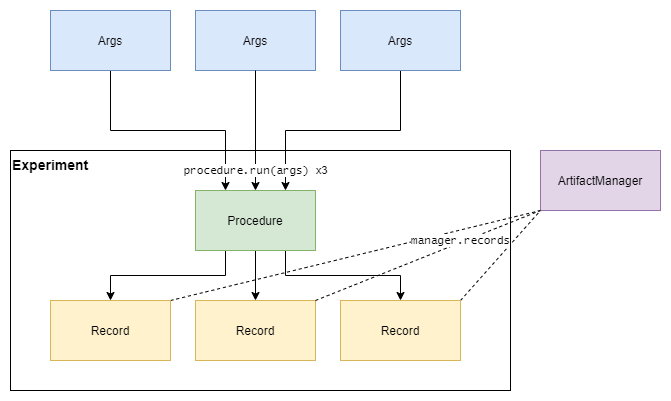
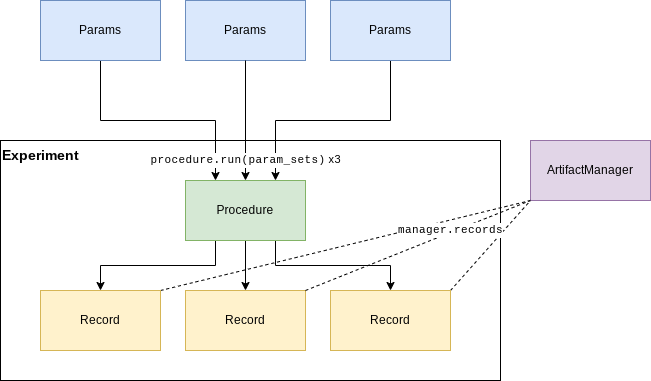
Update components docs

diff --git a/curifactory/procedure.py b/curifactory/procedure.py
@@ -39,7 +39,7 @@ class Procedure:
         previous_proc (Procedure): If specified and this procedure begins with an aggregate stage,
             use the ``previous_proc.records`` list of records.
         records (List[Record]): If specified and this procedure begins with an aggregate stage, use
-            this list of records.
+            this list of records. Note that ``previous_proc`` takes precedence over this argument.
 
     Note:
         If a procedure begins with an aggregate stage and neither ``previous_proc`` nor

diff --git a/sphinx/source/components.rst b/sphinx/source/components.rst
@@ -32,20 +32,20 @@ are simply an alternative way to running stages than the functional form.
         test_model
     ], ...)
 
-**Parameter sets** - Parameter sets represent a specific collection (list of argsets) of configuration values or adjustable parameters for the stage functions
+**Parameter sets** - Parameter sets represent a collection of configuration values or adjustable parameters for the stage functions
 to apply to the functions called in the codebase.
 
-**Records** - A record is a collection of data/variables used in a single run of a procedure with a single paramset.
+**Records** - A record is a collection of data/variables used in a single run of a procedure with a single parameter set.
 A record is automatically passed between stages of a procedure in order to persist the information. The currently
 active record is passed into every stage, so a stage has manual access to everything stored in it.
 
 **Artifact Manager** - An artifact manager instance is associated with each experiment run, and it tracks and handles all intermediate
 outputs from the various stages. The manager is the overarching collection of records for an experiment run.
-It tracks all records for each procedure/paramset
+It tracks all records for each procedure/parameter set
 used. A stage with an aggregate decorator can get access to all records instead of just the currently active one in
 the procedure in order to aggregate results or other data across the records.
 
-**Experiments** - Experiments apply given sets of parameters to one or more procedures, potentially running additional aggregate stages
+**Experiments** - Experiments apply given parameter sets to one or more procedures, potentially running additional aggregate stages
 to collect and analyze results from multiple procedure runs across parameter sets. The intention of an experiment is
 to allow easy comparison of results for multiple similar procedures and/or multiple parameter configurations across one
 or more procedures.
@@ -61,13 +61,13 @@ Stage flow
 .. figure:: images/interactions_stage.png
     :align: center
 
-A stage is the processing of a record. A record has a :code:`state` attribute, which is a dictionary
+A stage is the processing or transformation of a record. A record has a :code:`state` attribute, which is a dictionary
 of data from previous stages. A stage which requires input automatically finds those input variables from the passed :code:`record.state` and
 passes them into the function,
-and the outputs are stored from the returns back into :code:`record.state`. A record is initialized with some :code:`Args` parameter
+and the outputs are stored from the function returns back into :code:`record.state`. A record is initialized with some :code:`ExperimentParameters` parameter
 set, and the record itself has an associated artifact manager.
 
-Note that the four components here, args, records, stages, and a manager are the minimum components required
+Note that the four components here, parameters, records, stages, and a manager are the minimum components required
 to interact with Curifactory. Procedures and experiments are helpful but not required, and you could for
 instance run stages on their own with just these four components in a jupyter notebook or similar.
 (However, most of the benefit of Curifactory comes from the experiment management side through the
@@ -80,13 +80,34 @@ Procedure flow
     :align: center
 
 Procedures simplify calling multiple stages. A procedure is defined with a list of these stages, and then
-calling :code:`proc.run(args)` while passing in an :code:`Args` parameter set will automatically create an associated
+calling :code:`proc.run(params)` while passing in an :code:`ExperimentParameters` parameter set will automatically create an associated
 record, store it in the manager, and then execute the sequence of stages as a pipeline on the record.
 The output is the final record, which could also be accessed as :code:`manager.records[-1]`, since it was the
 last record added to the manager.
 
 Note that the :code:`run()` function optionally takes a record as a parameter, which if passed will use the existing record
 rather than creating a new one, meaning multiple procedures can technically be chained.
+
+
+Any aggregate stages that are applied to a given record must be the first stage in the chain for that record.
+Similarly, if including an aggregate stage as part of a procedure it must be the first one listed.
+There are several ways you can control what set of records is passed into an aggregate stage in a procedure:
+
+1. | If you pass another procedure instance to ``previous_proc``, it will use all records created from that
+   | procedure as the input record list for this one.
+2. You can directly specify ``records`` and provide the desired list of previous records to use.
+3. | If neither ``previous_proc`` or ``records`` is specified, it will grab all existing records from the
+   | artifact manager.
+
+.. code-block:: python
+
+    proc1 = Procedure([...])
+    proc1.run(params1)
+    proc1.run(params2)
+
+    proc2 = Procedure([my_aggregate], previous_proc=proc1)
+    proc2.run(None)  # the records created for params1 and params2 will be passed to the aggregate
+
 
 Experiment flow
 ...............
@@ -99,8 +120,8 @@ Experiment flow
 
 An experiment is a relatively free-form way of defining one or more procedures (or manually running stages) to run on any number
 of passed parameter sets. The code for an experiment is user-defined, but the Curifactory :code:`experiment` CLI
-expects an experiment script to take a passed list of :code:`Args` instances and an artifact manager, and provides
-many additional tools for working with and getting output from the experiment runs.
+expects an experiment script to have a function that takes a list of :code:`ExperimentParameters` instances and an
+artifact manager, and provides many additional tools for working with and getting output from the experiment runs.
 
 Running a procedure on multiple different parameter sets adds a record to the manager for each one. This
 allows for comparison between the results by getting the records through :code:`manager.records`.
@@ -108,17 +129,17 @@ allows for comparison between the results by getting the records through :code:`
 Anatomy of a stage
 ------------------
 
-The :code:`@stage` decorator is placed on every stage function, and this handles passing in the appropriate input parameters
-from the record, storing new outputs in the record, and checking for previously cached outputs (short-circuiting if so),
+The :code:`@stage` decorator is placed on every stage function, and this handles passing in the appropriate inputs
+from the record, storing new outputs in the record, checking for previously cached outputs (short-circuiting if so),
 and caching returned results from the function.
 
-Every stage function is expected to take a :code:`Record` instance as the first parameter. (Procedures automatically handle this.)
+Every stage function is expected to take a :code:`Record` instance as the first argument. (Procedures automatically handle this.)
 The stage will return the modified record rather than the direct output of the function the stage is decorating. The direct
 function output can be obtained from :code:`record.output` on the returned record.
 
-The decorator itself accepts three parameters: :code:`inputs`, :code:`outputs`, and optionally :code:`cachers`. The :code:`inputs` and :code:`outputs`
-parameters are arrays of strings, where each string is the name of an artifact (piece of data) to retrieve or store on
-the record.
+The decorator itself primarily accepts three parameters: :code:`inputs`, :code:`outputs`, and optionally :code:`cachers`.
+The :code:`inputs` and :code:`outputs` parameters are arrays of strings, where each string is the name of an artifact
+(piece of data) to retrieve or store on the record.
 
 .. figure:: images/curifactory_stage_explanation.png
     :align: center
@@ -136,7 +157,7 @@ Stage parameters
 
 The functions that a stage wraps always take a record as their first argument. As
 mentioned in previous sections, input names given in the stage inputs argument
-must also show up as parameters in the function. The stage wrapper means that
+must also show up as arguments in the function. The stage wrapper means that
 you can manually call the stage function while only passing it the record, and
 the stage will handle populating the remainder of these parameters:
 
@@ -170,7 +191,7 @@ the state, which we do by setting the :code:`suppress_missing_inputs` flag:
 In the above case, the stage will still execute even if :code:`my_input` does
 not exist, and inside the function its value will be :code:`None`.
 
-We can also directly pass a specific value for a parameter when we call a stage,
+We can also directly pass a specific value for an argument when we call a stage,
 like we would a normal function. Doing so negates the need for the
 :code:`suppress_missing_inputs` flag, and would override a value from state if
 one exists:
@@ -186,3 +207,50 @@ one exists:
 
 In this case, :code:`my_input` inside the stage code will be 42, regardless of
 what it is in state (or even if it doesn't exist in state.)
+
+Aggregate parameters
+--------------------
+
+Functions that an aggregate decorator wraps always take a record as their first argument
+(the same as a normal stage) and then a list of records as the second argument. This list
+of records (and thus parameter sets) is what the aggregate is intended to aggregate across.
+
+The ``inputs`` argument in the decorator is similar to a regular stage in that you're requesting
+those named artifacts from the state to be populated in the function definition. However, it gets
+handled slightly differently since the input "state" is coming from multiple records. Each
+input argument in the function definition is populated with a **dictionary** keyed by each
+record that has the requested input in its state, and the associated value is that artifact from
+that record.
+
+As an example, assume we have three records:
+
+.. code-block:: python
+
+    r0 = Record()
+    r0.state["model"] = some_model
+    r1 = Record()
+    r1.state["model"] = some_other_model
+    r1.state["results"] = 5.0
+    r2 = Record()
+    r2.state["results"] = 6.0
+
+    @aggregate(inputs=["model", "results"], outputs=["combined_results"])
+    def combine_results(record, records: list[Record], model: dict[Record, any], results: dict[Record, float]):
+        final_results = {}
+
+        # we can loop through only the records that have "results" in state
+        for r, result in results.items():
+            final_results[r.params.name] = result
+
+            # we can cross reference the dictinoaries by record
+            # so if that record had a model we can check:
+            if r in model:
+                associated_model = model[r]
+
+        return final_results
+
+    combine_results(Record(), [r0, r1, r2])
+
+In the above snippet, the ``records`` list will have the three passed records ``r0``, ``r1``, and ``r2``.
+The ``model`` parameter will only contain two entries, keys for ``r0`` and ``r1``, and results will have
+two keys ``r1`` and ``r2``.
